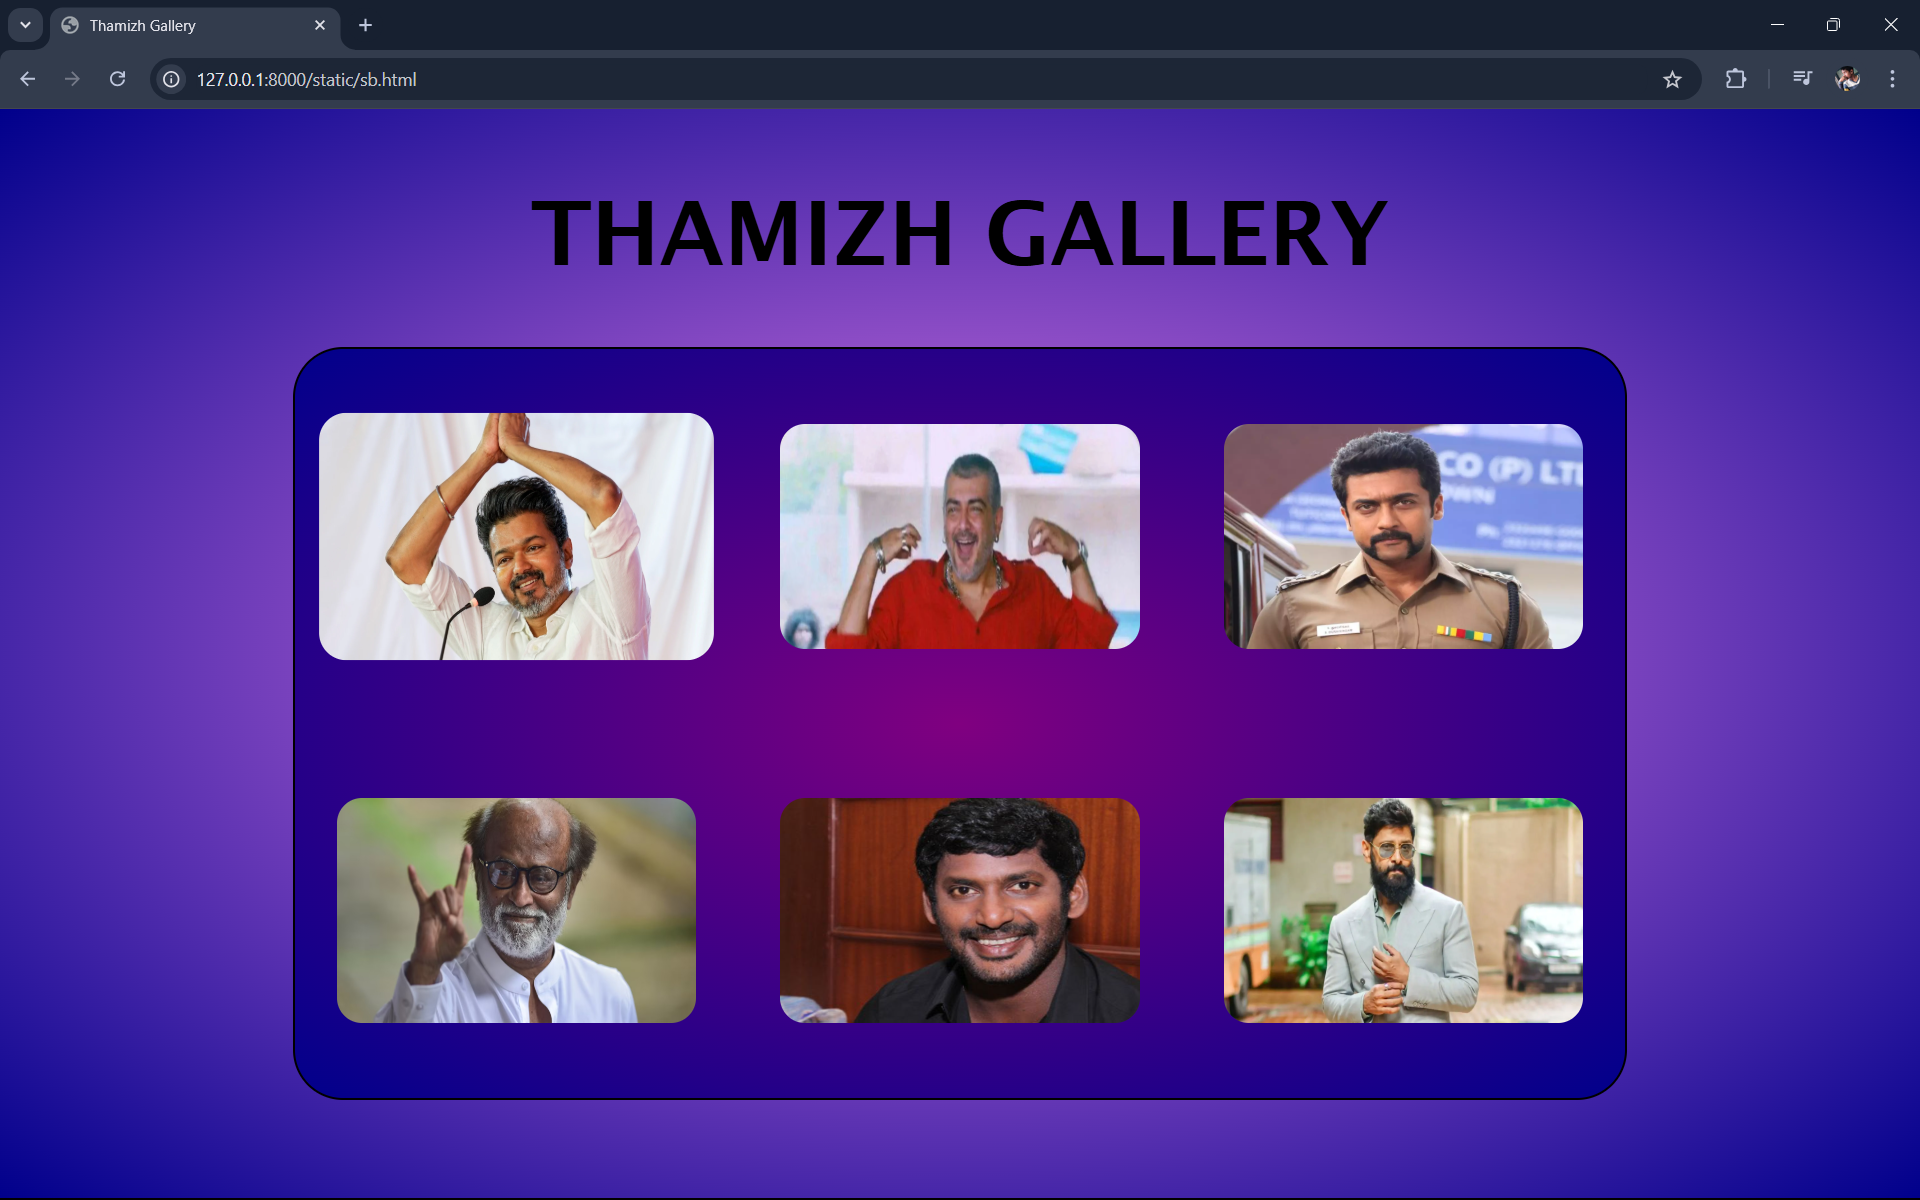
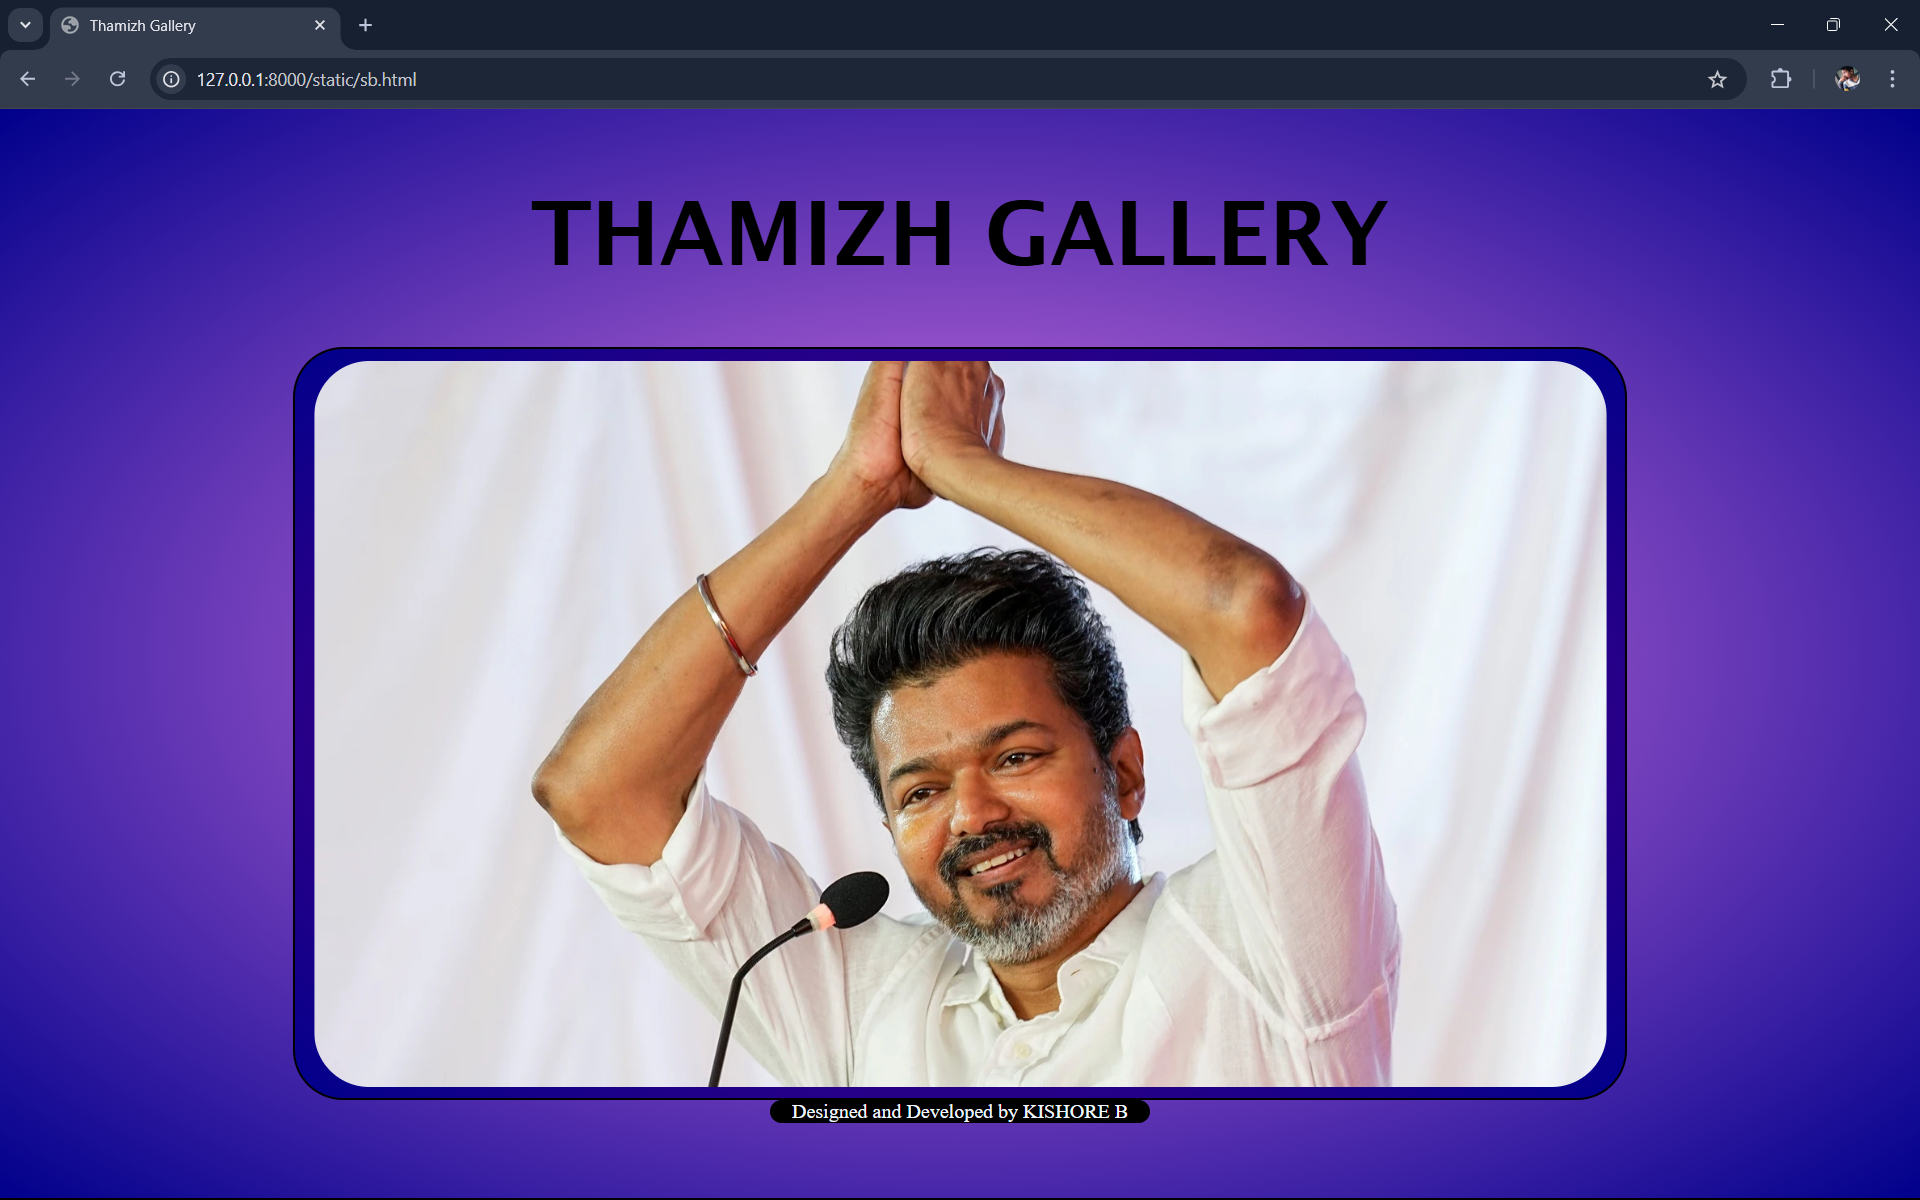
Success

diff --git a/snake/babu/static/sb.html b/snake/babu/static/sb.html
@@ -13,6 +13,12 @@
         font-family:'Lucida Sans', 'Lucida Sans Regular', 'Lucida Grande', 'Lucida Sans Unicode', Geneva, Verdana, sans-serif;
         font-size: 70px;
     }
+    footer{
+        background-color: black;
+        color: aliceblue;
+        border-radius: 10px;
+        width: 20%;
+    }
     .main{
         display: flex;
         flex-wrap: wrap;
@@ -39,6 +45,7 @@
     }
 
     .f{
+        display: flex;
         border-radius: 40px;
         position: relative;
         top: 0%;
@@ -87,4 +94,7 @@
             });
         </script>
     </body>
+    <footer align="center">
+        Designed and Developed by KISHORE B
+    </footer>
 </html>

diff --git a/README.md b/README.md
@@ -41,6 +41,12 @@ Publish the website in the given URL.
         font-family:'Lucida Sans', 'Lucida Sans Regular', 'Lucida Grande', 'Lucida Sans Unicode', Geneva, Verdana, sans-serif;
         font-size: 70px;
     }
+    footer{
+        background-color: black;
+        color: aliceblue;
+        border-radius: 10px;
+        width: 20%;
+    }
     .main{
         display: flex;
         flex-wrap: wrap;
@@ -67,6 +73,7 @@ Publish the website in the given URL.
     }
 
     .f{
+        display: flex;
         border-radius: 40px;
         position: relative;
         top: 0%;
@@ -115,13 +122,15 @@ Publish the website in the given URL.
             });
         </script>
     </body>
+    <footer align="center">
+        Designed and Developed by KISHORE B
+    </footer>
 </html>
 ```
 ## OUTPUT:
 
 ![alt text](1.png)
 ![alt text](2.png)
-![alt text](3.png)
 
 ## RESULT:
 The program for designing an interactive image gallery using HTML, CSS and JavaScript is executed successfully.
